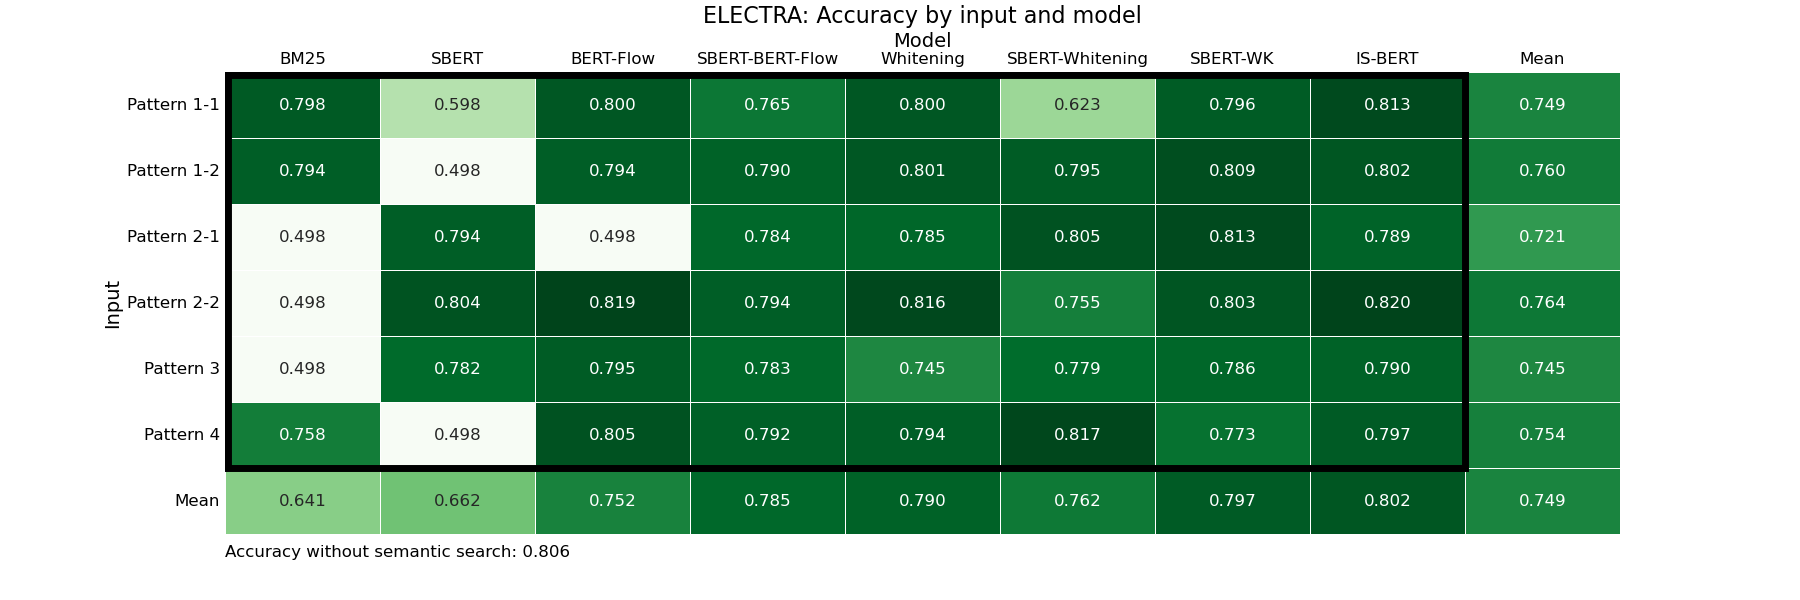
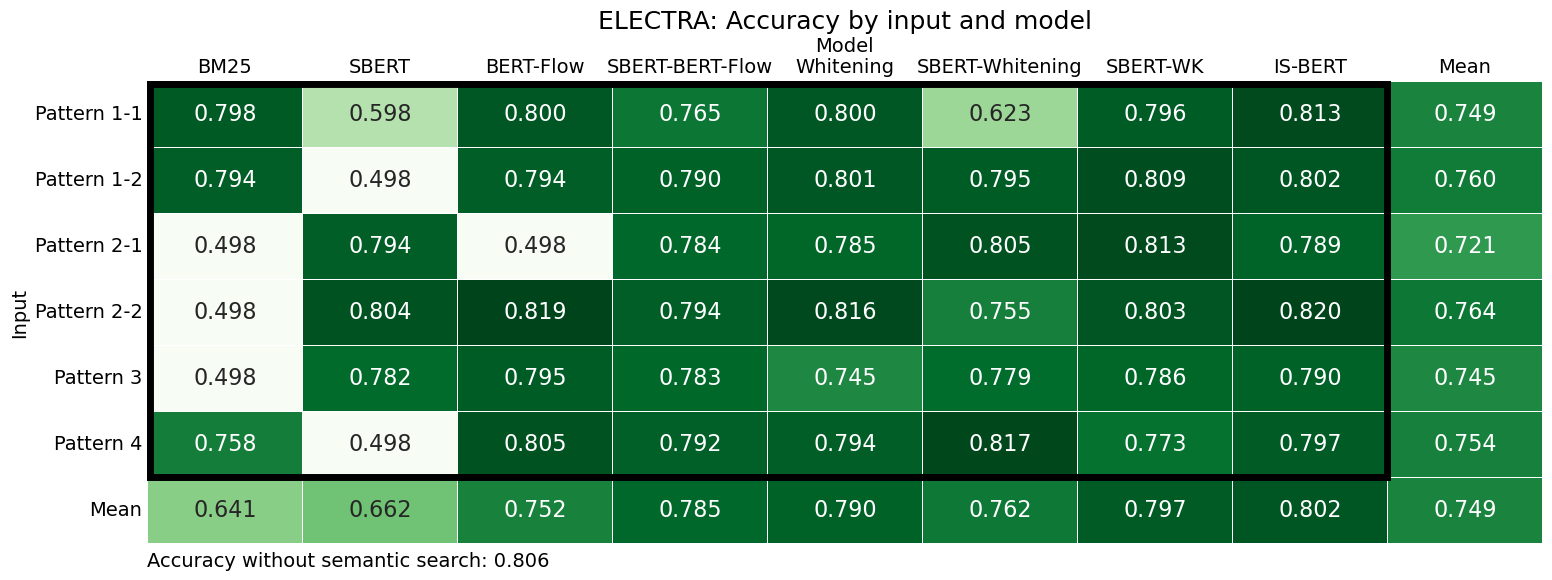
make plots better readable and no border

diff --git a/code/visualize_results.py b/code/visualize_results.py
@@ -87,7 +87,7 @@ def create_plot(matrix, metric, model, results_no_semsearch):
 
     # set up the plot
     fig, ax = plt.subplots(figsize=(18, 6))
-    sns.heatmap(matrix, annot=True, cmap=str(color), fmt='.3f', linewidths=.5, cbar=False, ax=ax, annot_kws={"size": 12})
+    sns.heatmap(matrix, annot=True, cmap=str(color), fmt='.3f', linewidths=.5, cbar=False, ax=ax, annot_kws={"size": 16})
 
     # Drawing the frame
     ax.axhline(y = 0, color='k',linewidth = 10, xmin=0, xmax=1-(1/8.7))
@@ -96,8 +96,8 @@ def create_plot(matrix, metric, model, results_no_semsearch):
     ax.axvline(x = 8, color = 'k', linewidth = 5, ymin=1/6.5, ymax=1)
 
     # set the tick labels to be horizontal and remove axis ticks
-    ax.set_xticklabels(ax.get_xticklabels(), rotation=0, horizontalalignment='center', fontsize=12)
-    ax.set_yticklabels(ax.get_yticklabels(), rotation=0, horizontalalignment='right', fontsize=12)
+    ax.set_xticklabels(ax.get_xticklabels(), rotation=0, horizontalalignment='center', fontsize=14)
+    ax.set_yticklabels(ax.get_yticklabels(), rotation=0, horizontalalignment='right', fontsize=14)
     ax.xaxis.tick_top() # x axis on top
     ax.xaxis.set_label_position('top')
     ax.tick_params(axis='both', which='both', length=0)
@@ -105,12 +105,12 @@ def create_plot(matrix, metric, model, results_no_semsearch):
     # set the axis labels and title
     ax.set_xlabel('Model', fontsize=14)
     ax.set_ylabel('Input', fontsize=14)
-    ax.set_title(f'{model.upper()}: {metric.capitalize()} by input and model', fontsize=16)
+    ax.set_title(f'{model.upper()}: {metric.capitalize()} by input and model', fontsize=18)
 
     # add the no sem search values to bottom left corner
-    ax.text(0, -0.05, f"{metric.capitalize()} without semantic search: {metric_no_semsearch}", fontsize=12, transform=ax.transAxes)
+    ax.text(0, -0.05, f"{metric.capitalize()} without semantic search: {metric_no_semsearch}", fontsize=14, transform=ax.transAxes)
 
-    plt.savefig(path+f'Plots/{model}_{metric}.png', transparent=True)
+    plt.savefig(path+f'Plots/{model}_{metric}.png', transparent=True, bbox_inches="tight")
 
 
 # make the plots
@@ -147,7 +147,7 @@ acc_electra_no_semsearch = float(electra_no_semsearch[0].split(' = ')[1])
 
 # set up the plot
 fig, ax = plt.subplots(figsize=(18, 6))
-sns.heatmap(matrix_electra_summary_acc, annot=True, cmap=str(color), fmt='.3f', linewidths=.5, cbar=False, ax=ax, annot_kws={"size": 12})
+sns.heatmap(matrix_electra_summary_acc, annot=True, cmap=str(color), fmt='.3f', linewidths=.5, cbar=False, ax=ax, annot_kws={"size": 16})
 
 # Drawing the frame
 ax.axhline(y = 0, color='k',linewidth = 10, xmin=0, xmax=1-(1/2.97))
@@ -156,8 +156,8 @@ ax.axvline(x = 0, color = 'k', linewidth = 10, ymin=1/6.5, ymax=1)
 ax.axvline(x = 2, color = 'k', linewidth = 5, ymin=1/6.5, ymax=1)
 
 # set the tick labels to be horizontal and remove axis ticks
-ax.set_xticklabels(ax.get_xticklabels(), rotation=0, horizontalalignment='center', fontsize=12)
-ax.set_yticklabels(ax.get_yticklabels(), rotation=0, horizontalalignment='right', fontsize=12)
+ax.set_xticklabels(ax.get_xticklabels(), rotation=0, horizontalalignment='center', fontsize=14)
+ax.set_yticklabels(ax.get_yticklabels(), rotation=0, horizontalalignment='right', fontsize=14)
 ax.xaxis.tick_top() # x axis on top
 ax.xaxis.set_label_position('top')
 ax.tick_params(axis='both', which='both', length=0)
@@ -165,12 +165,12 @@ ax.tick_params(axis='both', which='both', length=0)
 # set the axis labels and title
 ax.set_xlabel('Model', fontsize=14)
 ax.set_ylabel('Input', fontsize=14)
-ax.set_title('ELECTRA: Accuracy by input and model', fontsize=16)
+ax.set_title('ELECTRA: Accuracy by input and model', fontsize=18)
 
 # add the no sem search values to bottom left corner
-ax.text(0, -0.05, f"Accuracy without semantic search: {acc_electra_no_semsearch}", fontsize=12, transform=ax.transAxes)
+ax.text(0, -0.05, f"Accuracy without semantic search: {acc_electra_no_semsearch}", fontsize=14, transform=ax.transAxes)
 
-plt.savefig(path+f'Plots/electra_summary_accuracy.png', transparent=True)
+plt.savefig(path+f'Plots/electra_summary_accuracy.png', transparent=True, bbox_inches="tight")
 
 # F1, do own plot
 matrix_electra_summary_f1 = create_matrix(df_electra_summary, "f1")
@@ -180,7 +180,7 @@ f1_electra_no_semsearch = float(electra_no_semsearch[1].split(' = ')[1])
 
 # set up the plot
 fig, ax = plt.subplots(figsize=(18, 6))
-sns.heatmap(matrix_electra_summary_f1, annot=True, cmap=str(color), fmt='.3f', linewidths=.5, cbar=False, ax=ax, annot_kws={"size": 12})
+sns.heatmap(matrix_electra_summary_f1, annot=True, cmap=str(color), fmt='.3f', linewidths=.5, cbar=False, ax=ax, annot_kws={"size": 16})
 
 # Drawing the frame
 ax.axhline(y = 0, color='k',linewidth = 10, xmin=0, xmax=1-(1/2.97))
@@ -189,8 +189,8 @@ ax.axvline(x = 0, color = 'k', linewidth = 10, ymin=1/6.5, ymax=1)
 ax.axvline(x = 2, color = 'k', linewidth = 5, ymin=1/6.5, ymax=1)
 
 # set the tick labels to be horizontal and remove axis ticks
-ax.set_xticklabels(ax.get_xticklabels(), rotation=0, horizontalalignment='center', fontsize=12)
-ax.set_yticklabels(ax.get_yticklabels(), rotation=0, horizontalalignment='right', fontsize=12)
+ax.set_xticklabels(ax.get_xticklabels(), rotation=0, horizontalalignment='center', fontsize=14)
+ax.set_yticklabels(ax.get_yticklabels(), rotation=0, horizontalalignment='right', fontsize=14)
 ax.xaxis.tick_top() # x axis on top
 ax.xaxis.set_label_position('top')
 ax.tick_params(axis='both', which='both', length=0)
@@ -198,9 +198,9 @@ ax.tick_params(axis='both', which='both', length=0)
 # set the axis labels and title
 ax.set_xlabel('Model', fontsize=14)
 ax.set_ylabel('Input', fontsize=14)
-ax.set_title('ELECTRA: F1 by input and model', fontsize=16)
+ax.set_title('ELECTRA: F1 by input and model', fontsize=18)
 
 # add the no sem search values to bottom left corner
-ax.text(0, -0.05, f"F1 without semantic search: {f1_electra_no_semsearch}", fontsize=12, transform=ax.transAxes)
+ax.text(0, -0.05, f"F1 without semantic search: {f1_electra_no_semsearch}", fontsize=14, transform=ax.transAxes)
 
-plt.savefig(path+f'Plots/electra_summary_f1.png', transparent=True)
+plt.savefig(path+f'Plots/electra_summary_f1.png', transparent=True, bbox_inches="tight")
